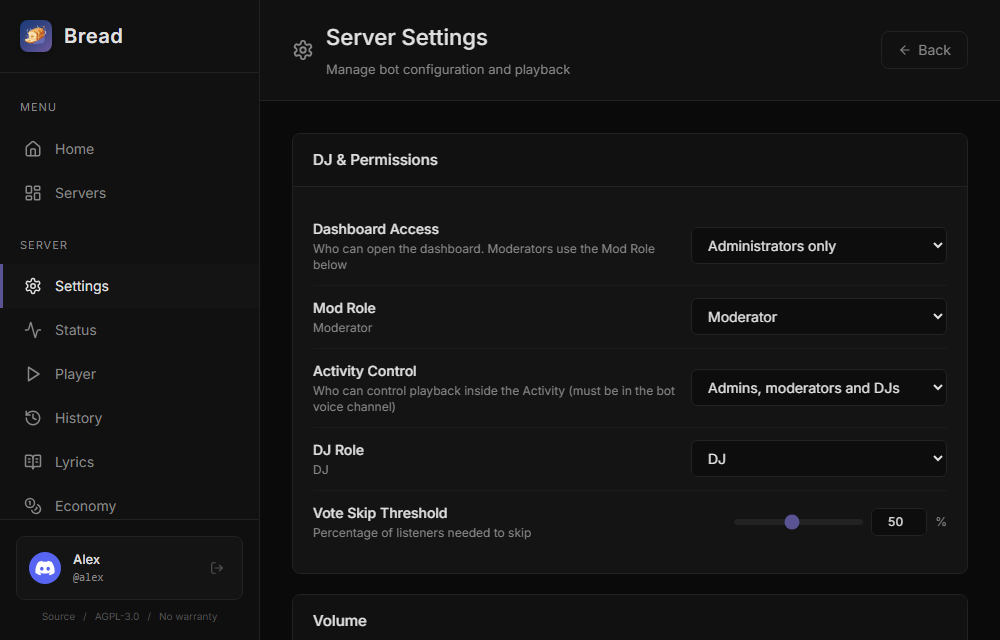
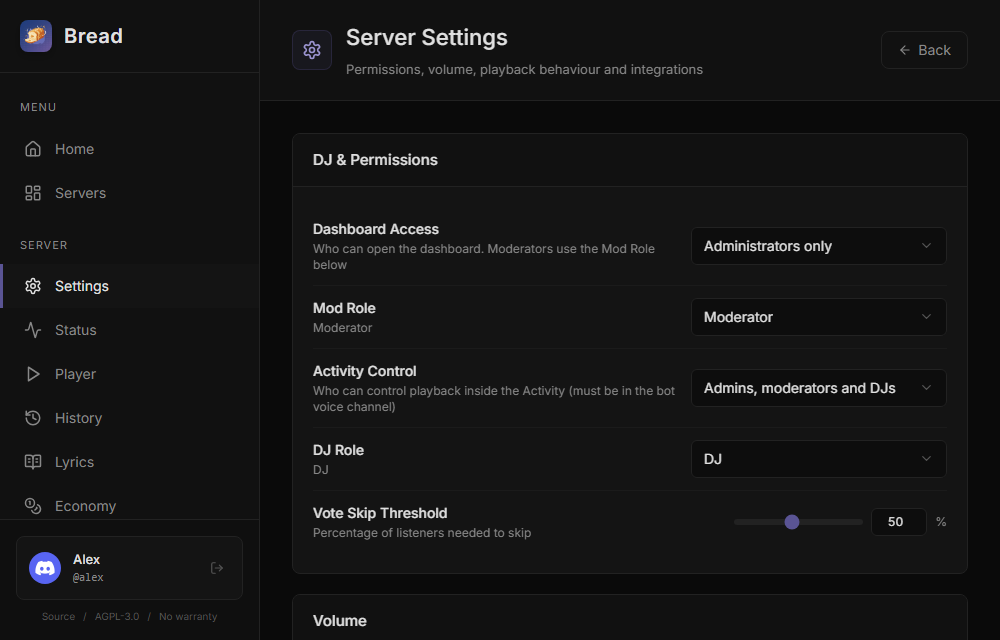
fix(landing): fresh dashboard shots, quieter back-to-top notch and cleanup
- Recapture the dashboard gallery images with the current settings UI
- Dashboard caption no longer repeats the permissions feature note
- Back-to-top notch only shows when scrolling up or at the end of the page
- Balance the hero description so it never ends on one word
- Drop unused landing components and update the default meta description

diff --git a/web/components/landing-preview/LandingPreview.tsx b/web/components/landing-preview/LandingPreview.tsx
@@ -14,7 +14,7 @@ import styles from './preview.module.css';
 
 const heroView = { id: 'activity', label: 'Activity', file: 'activity.png', mobile: 'activity-phone.png', title: 'Music, together in Discord.', description: 'Find tracks, follow live lyrics and control playback from your voice channel.' };
 const views = [
-  { id: 'dashboard', label: 'Dashboard', icon: LayoutDashboard, file: 'dashboard.png', mobile: 'dashboard-phone.png', title: 'Server settings and permissions.', description: 'Choose DJ roles, Activity permissions, vote skip thresholds and volume limits for your server.' },
+  { id: 'dashboard', label: 'Dashboard', icon: LayoutDashboard, file: 'dashboard.png', mobile: 'dashboard-phone.png', title: 'Settings without commands.', description: 'Sign in with Discord and adjust Bread for every server you manage.' },
   { id: 'queue', label: 'Shared queue', icon: ListMusic, file: 'activity-queue.png', mobile: 'activity-queue-phone.png', title: 'A queue everyone can shape.', description: 'Add tracks together, drag them into order and vote to skip. DJ permissions stay in your hands.' },
   { id: 'lyrics', label: 'Live lyrics', icon: BookOpenText, file: 'lyrics.png', mobile: 'lyrics-phone.png', title: 'Lyrics that stay with the room.', description: 'Follow synced lines in the drawer or switch to a focused karaoke view without leaving Activity.' },
 ];

diff --git a/web/components/landing-preview/ScrollToTopNotch.tsx b/web/components/landing-preview/ScrollToTopNotch.tsx
@@ -12,13 +12,21 @@ export function ScrollToTopNotch({ hidden = false }: { hidden?: boolean }) {
 
   useEffect(() => {
     let frame = 0;
+    let lastY = window.scrollY;
+    let scrollingUp = false;
     const update = () => {
       frame = 0;
       const root = document.documentElement;
       const maxScroll = Math.max(1, root.scrollHeight - root.clientHeight);
       notchRef.current?.style.setProperty('--scroll-progress', String(Math.min(1, window.scrollY / maxScroll)));
+      // Stay out of the way while reading: only offer the way back when heading up or at the end.
+      if (Math.abs(window.scrollY - lastY) > 4) {
+        scrollingUp = window.scrollY < lastY;
+        lastY = window.scrollY;
+      }
+      const nearEnd = maxScroll - window.scrollY < 160;
       const hero = document.getElementById('main-content');
-      const nextVisible = Boolean(hero && hero.getBoundingClientRect().bottom <= 0);
+      const nextVisible = Boolean(hero && hero.getBoundingClientRect().bottom <= 0) && (scrollingUp || nearEnd);
       if (visibleRef.current !== nextVisible) {
         visibleRef.current = nextVisible;
         setVisible(nextVisible);

diff --git a/web/components/landing-preview/preview.module.css b/web/components/landing-preview/preview.module.css
@@ -52,7 +52,7 @@
 .heroText { position: relative; z-index: 1; text-align: center; padding: 49px 20px 0; }
 .heroText h1 { font-size: 72px; line-height: 1.08; font-weight: 650; display: flex; align-items: baseline; justify-content: center; gap: 20px; }
 .heroText > p { font-size: 22px; line-height: 1.4; margin: 10px 0; color: #e0dfe5; font-weight: 450; }
-.heroDescription { display: block; color: var(--muted); font-size: 15px; max-width: 560px; margin: auto; }
+.heroDescription { display: block; color: var(--muted); font-size: 15px; max-width: 560px; margin: auto; text-wrap: balance; }
 .heroActions { display: flex; align-items: center; justify-content: center; gap: 12px; margin: 24px 0 0; }
 .primary, .secondary { min-height: 46px; padding: 0 21px; display: inline-flex; align-items: center; justify-content: center; gap: 9px; border-radius: 6px; font-weight: 600; font-size: 13px; transition: background 180ms, transform 180ms; }
 .primary { background: var(--paper); color: #141417; }

diff --git a/web/e2e/landing.spec.ts b/web/e2e/landing.spec.ts
@@ -52,6 +52,10 @@ test('product showcase starts with Dashboard, exposes lyrics and the edge notch 
     window.scrollTo(0, hero ? window.scrollY + hero.getBoundingClientRect().bottom + 1 : innerHeight);
   });
   await expect.poll(() => page.locator('#main-content').evaluate(hero => hero.getBoundingClientRect().bottom)).toBeLessThanOrEqual(0);
+  await page.evaluate(() => window.scrollBy(0, 400));
+  // Reading down the page keeps the notch out of the way; it comes back once the reader heads up.
+  await expect(notch).toHaveAttribute('data-visible', 'false');
+  await page.evaluate(() => window.scrollBy(0, -120));
   await expect(notch).toHaveAttribute('data-visible', 'true');
   await expect(notch).toHaveAttribute('aria-hidden', 'false');
   await notch.hover();

diff --git a/web/app/layout.tsx b/web/app/layout.tsx
@@ -5,7 +5,7 @@ import { CookieNotice } from '@/components/legal/CookieNotice';
 
 export const metadata: Metadata = {
   title: 'Bread - Discord Music Bot',
-  description: 'Music playback, audio filters, games and economy, all in one Discord bot. Manage everything from the dashboard.',
+  description: 'A Discord music bot with a shared player, live lyrics, radio and autoplay that learns.',
   icons: [
     { rel: 'icon', url: '/assets/breadiconpng.png?v=3', type: 'image/png', sizes: 'any' },
     { rel: 'apple-touch-icon', url: '/assets/breadicon.png?v=3' }
